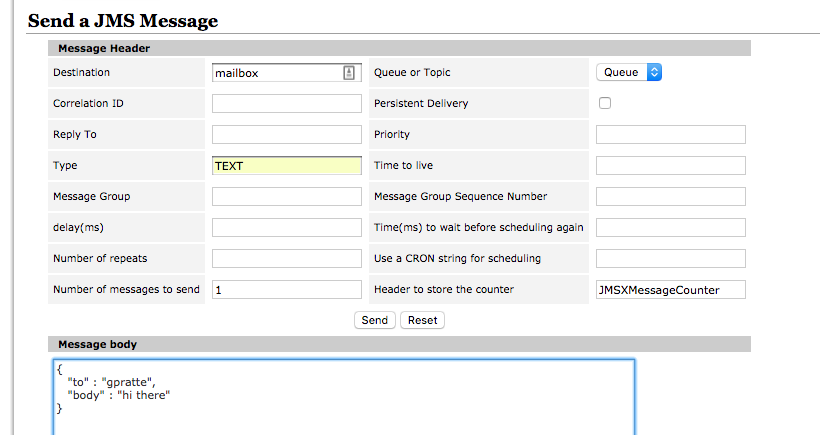
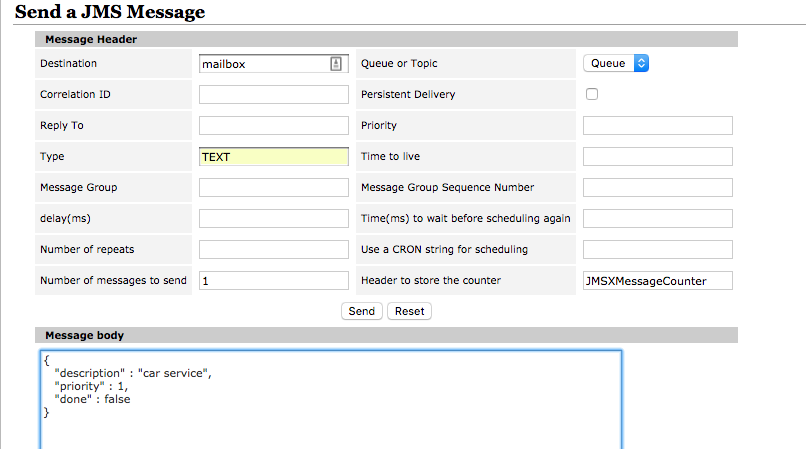
changed message from Email to Todo

Changed region(s): [[0.0, 0.0, 0.9305, 1.0], [0.7134, 0.5678, 0.8995, 0.6874], [0.7134, 0.2989, 0.8995, 0.3287]]

diff --git a/src/test/java/com/example/message/one/TodoStepDef.java b/src/test/java/com/example/message/one/TodoStepDef.java
@@ -1,16 +1,13 @@
 package com.example.message.one;
 
 import com.example.message.SpringBootBaseIntegrationTest;
-import com.example.message.model.Email;
+import com.example.message.model.Todo;
 import cucumber.api.java.After;
 import cucumber.api.java.Before;
 import cucumber.api.java.en.Given;
 import cucumber.api.java.en.Then;
 import cucumber.api.java.en.When;
 import org.junit.Ignore;
-import org.junit.runner.RunWith;
-import org.springframework.boot.test.context.SpringBootTest;
-import org.springframework.test.context.junit4.SpringRunner;
 
 import static com.github.tomakehurst.wiremock.client.WireMock.aResponse;
 import static com.github.tomakehurst.wiremock.client.WireMock.configureFor;
@@ -25,9 +22,9 @@ import static com.github.tomakehurst.wiremock.client.WireMock.verify;
  * The CucumberOneTest class is used to run the features when testing with JUnit.
  */
 @Ignore
-public class EmailStepDef extends SpringBootBaseIntegrationTest {
+public class TodoStepDef extends SpringBootBaseIntegrationTest {
 
-    private Email email;
+    private Todo todo;
 
     @Before
     public void before() {
@@ -41,11 +38,12 @@ public class EmailStepDef extends SpringBootBaseIntegrationTest {
         wireMockServer.stop();
     }
 
-    @Given("email is composed")
-    public void compose() {
-        email = Email.builder()
-            .to("nobody@example.com")
-            .body("Lorem ipsum dolor sit amet, consectetur adipiscing elit. Pellentesque scelerisque, enim in congue consequat, ligula.")
+    @Given("Given todo grocery shop is composed\n")
+    public void groceryShop() {
+        todo = Todo.builder()
+            .description("Grocery shop")
+            .priority(2)
+            .done(false)
             .build();
 
         stubFor(get(urlEqualTo("/api/json/utc/now"))
@@ -55,11 +53,12 @@ public class EmailStepDef extends SpringBootBaseIntegrationTest {
 
     }
 
-    @Given("email is composed to anybody")
-    public void composeToAnybody() {
-        email = Email.builder()
-            .to("anybody@example.com")
-            .body("Lorem ipsum dolor sit amet, consectetur adipiscing elit. Pellentesque scelerisque, enim in congue consequat, ligula.")
+    @Given("todo walk dogs is composed")
+    public void walkDogs() {
+        todo = Todo.builder()
+            .description("Walk dogs")
+            .priority(2)
+            .done(false)
             .build();
 
         stubFor(get(urlEqualTo("/api/json/utc/now"))
@@ -69,9 +68,9 @@ public class EmailStepDef extends SpringBootBaseIntegrationTest {
 
     }
 
-    @When("the email is published to the queue")
+    @When("the todo is published to the queue")
     public void publish() {
-        this.sendEmail(email);
+        this.sendTodo(todo);
     }
 
     @Then("the rest call should happen")

diff --git a/src/test/java/com/example/message/two/TodoStepDef2.java b/src/test/java/com/example/message/two/TodoStepDef2.java
@@ -1,16 +1,13 @@
 package com.example.message.two;
 
 import com.example.message.SpringBootBaseIntegrationTest;
-import com.example.message.model.Email;
+import com.example.message.model.Todo;
 import cucumber.api.java.After;
 import cucumber.api.java.Before;
 import cucumber.api.java.en.Given;
 import cucumber.api.java.en.Then;
 import cucumber.api.java.en.When;
 import org.junit.Ignore;
-import org.junit.runner.RunWith;
-import org.springframework.boot.test.context.SpringBootTest;
-import org.springframework.test.context.junit4.SpringRunner;
 
 import static com.github.tomakehurst.wiremock.client.WireMock.aResponse;
 import static com.github.tomakehurst.wiremock.client.WireMock.configureFor;
@@ -25,9 +22,9 @@ import static com.github.tomakehurst.wiremock.client.WireMock.verify;
  * The CucumberOneTest class is used to run the features when testing with JUnit.
  */
 @Ignore
-public class EmailStepDef2 extends SpringBootBaseIntegrationTest {
+public class TodoStepDef2 extends SpringBootBaseIntegrationTest {
 
-    private Email email;
+    private Todo todo;
 
     @Before
     public void before() {
@@ -45,17 +42,18 @@ public class EmailStepDef2 extends SpringBootBaseIntegrationTest {
         wireMockServer.stop();
     }
 
-    @Given("email is composed")
-    public void compose() {
-        email = Email.builder()
-            .to("nobody@example.com")
-            .body("Lorem ipsum dolor sit amet, consectetur adipiscing elit. Pellentesque scelerisque, enim in congue consequat, ligula.")
+    @Given("todo exercise is composed")
+    public void exercies() {
+        todo = Todo.builder()
+            .description("exercise")
+            .priority(2)
+            .done(false)
             .build();
     }
 
-    @When("the email is published to the queue")
+    @When("the todo is published to the queue")
     public void publish() {
-        this.sendEmail(email);
+        this.sendTodo(todo);
     }
 
     @Then("the rest call should happen")

diff --git a/src/main/java/com/example/message/connector/TodoMessageConverter.java b/src/main/java/com/example/message/connector/TodoMessageConverter.java
@@ -1,6 +1,6 @@
 package com.example.message.connector;
 
-import com.example.message.model.Email;
+import com.example.message.model.Todo;
 import com.fasterxml.jackson.databind.ObjectMapper;
 import org.springframework.jms.support.converter.MappingJackson2MessageConverter;
 import org.springframework.jms.support.converter.MessageConversionException;
@@ -11,19 +11,19 @@ import javax.jms.Message;
 import javax.jms.TextMessage;
 import java.io.IOException;
 
-public class EmailMessageConverter extends MappingJackson2MessageConverter {
+public class TodoMessageConverter extends MappingJackson2MessageConverter {
 
     private ObjectMapper mapper = new ObjectMapper();
 
     @Override
     public Object fromMessage(Message message) throws JMSException, MessageConversionException {
 
-        Email email = null;
+        Todo todo = null;
         if (message instanceof TextMessage) {
             TextMessage textMessage = (TextMessage) message;
             String json = textMessage.getText();
             try {
-                return mapper.readValue(json, Email.class);
+                return mapper.readValue(json, Todo.class);
             } catch (IOException e) {
                 e.printStackTrace();
             }
@@ -35,13 +35,13 @@ public class EmailMessageConverter extends MappingJackson2MessageConverter {
             bytesMessage.readBytes(bytes);
             String json = new String(bytes);
             try {
-                return mapper.readValue(json, Email.class);
+                return mapper.readValue(json, Todo.class);
             } catch (IOException e) {
                 e.printStackTrace();
             }
         }
 
-        return email;
+        return todo;
     }
 
 }

diff --git a/src/test/java/com/example/message/SpringBootBaseIntegrationTest.java b/src/test/java/com/example/message/SpringBootBaseIntegrationTest.java
@@ -1,10 +1,8 @@
 package com.example.message;
 
 import com.example.message.connector.ClockConnector;
-import com.example.message.model.Email;
+import com.example.message.model.Todo;
 import com.github.tomakehurst.wiremock.WireMockServer;
-import cucumber.api.java.After;
-import cucumber.api.java.Before;
 import org.junit.Ignore;
 import org.junit.runner.RunWith;
 import org.springframework.beans.factory.annotation.Autowired;
@@ -12,11 +10,7 @@ import org.springframework.boot.test.context.SpringBootTest;
 import org.springframework.jms.core.JmsTemplate;
 import org.springframework.test.context.junit4.SpringRunner;
 
-import static com.github.tomakehurst.wiremock.client.WireMock.aResponse;
 import static com.github.tomakehurst.wiremock.client.WireMock.configureFor;
-import static com.github.tomakehurst.wiremock.client.WireMock.get;
-import static com.github.tomakehurst.wiremock.client.WireMock.stubFor;
-import static com.github.tomakehurst.wiremock.client.WireMock.urlEqualTo;
 import static com.github.tomakehurst.wiremock.core.WireMockConfiguration.options;
 
 /**
@@ -37,8 +31,8 @@ public class SpringBootBaseIntegrationTest {
     // Configure wiremock server on port 9999
     protected WireMockServer wireMockServer = new WireMockServer(options().port(9999));
 
-    protected void sendEmail(Email email) {
-        jmsTemplate.convertAndSend("mailbox", email);
+    protected void sendTodo(Todo todo) {
+        jmsTemplate.convertAndSend("mailbox", todo);
     }
 
 }

diff --git a/src/main/java/com/example/message/MessageApplication.java b/src/main/java/com/example/message/MessageApplication.java
@@ -1,14 +1,12 @@
 package com.example.message;
 
-import com.example.message.model.Email;
 import org.springframework.beans.factory.annotation.Autowired;
-import org.springframework.boot.CommandLineRunner;
 import org.springframework.boot.SpringApplication;
 import org.springframework.boot.autoconfigure.SpringBootApplication;
 import org.springframework.jms.core.JmsTemplate;
 
 @SpringBootApplication
-public class MessageApplication implements CommandLineRunner {
+public class MessageApplication {
 
     @Autowired
     private JmsTemplate jmsTemplate;
@@ -17,15 +15,5 @@ public class MessageApplication implements CommandLineRunner {
         SpringApplication.run(MessageApplication.class, args);
     }
 
-    @Override
-    public void run(String... args) throws Exception {
-//        Email email = Email.builder()
-//            .to("nobody@example.com")
-//            .body("Lorem ipsum dolor sit amet, consectetur adipiscing elit. Pellentesque scelerisque, enim in congue consequat, ligula.")
-//            .build();
-//        System.out.println("Sending an email message.");
-//        jmsTemplate.convertAndSend("mailbox", email);
-
-    }
 }
 

diff --git a/src/main/java/com/example/message/service/Orchestrator.java b/src/main/java/com/example/message/service/Orchestrator.java
@@ -2,7 +2,7 @@ package com.example.message.service;
 
 import com.example.message.connector.ClockConnector;
 import com.example.message.model.CurrentDateTime;
-import com.example.message.model.Email;
+import com.example.message.model.Todo;
 import org.springframework.stereotype.Service;
 
 @Service
@@ -15,10 +15,10 @@ public class Orchestrator {
     }
 
     /**
-     * Orchestrate by getting the email and then calling a rest endpoint.
-     * @param email
+     * Orchestrate by getting the todo and then calling a rest endpoint.
+     * @param todo
      */
-    public void processEmail(Email email) {
+    public void processTodo(Todo todo) {
         CurrentDateTime currentDateTime = clockConnector.getCurrent();
         System.out.println("Current Date Time " + currentDateTime);
     }

diff --git a/src/main/java/com/example/message/connector/Receiver.java b/src/main/java/com/example/message/connector/Receiver.java
@@ -1,6 +1,6 @@
 package com.example.message.connector;
 
-import com.example.message.model.Email;
+import com.example.message.model.Todo;
 import com.example.message.service.Orchestrator;
 import org.springframework.jms.annotation.JmsListener;
 import org.springframework.stereotype.Component;
@@ -15,8 +15,8 @@ public class Receiver {
     }
 
     @JmsListener(destination = "mailbox", containerFactory = "myFactory")
-    public void receiveMessage(Email email) {
-        System.out.println("Received " + email);
-        orchestrator.processEmail(email);
+    public void receiveMessage(Todo todo) {
+        System.out.println("Received " + todo);
+        orchestrator.processTodo(todo);
     }
 }

diff --git a/src/main/java/com/example/message/config/JmsListenerConfig.java b/src/main/java/com/example/message/config/JmsListenerConfig.java
@@ -1,6 +1,6 @@
 package com.example.message.config;
 
-import com.example.message.connector.EmailMessageConverter;
+import com.example.message.connector.TodoMessageConverter;
 import org.springframework.boot.autoconfigure.jms.DefaultJmsListenerContainerFactoryConfigurer;
 import org.springframework.context.annotation.Bean;
 import org.springframework.context.annotation.Configuration;
@@ -26,7 +26,7 @@ public class JmsListenerConfig {
 
     @Bean // Serialize message content to json using TextMessage
     public MessageConverter messageConverter() {
-        return new EmailMessageConverter();
+        return new TodoMessageConverter();
     }
 
 }

diff --git a/src/test/java/com/example/message/CucumberTwoTest.java b/src/test/java/com/example/message/CucumberTwoTest.java
@@ -9,7 +9,7 @@ import org.junit.runner.RunWith;
  */
 @RunWith(Cucumber.class)
 @CucumberOptions(
-    features = "src/test/resources/features/email2.feature",
+    features = "src/test/resources/features/todo2.feature",
     glue = "com.example.message.two")
 public class CucumberTwoTest {
 }

diff --git a/src/test/java/com/example/message/CucumberOneTest.java b/src/test/java/com/example/message/CucumberOneTest.java
@@ -9,7 +9,7 @@ import org.junit.runner.RunWith;
  */
 @RunWith(Cucumber.class)
 @CucumberOptions(
-    features = "src/test/resources/features/email.feature",
+    features = "src/test/resources/features/todo.feature",
     glue = "com.example.message.one")
 public class CucumberOneTest {
 }

diff --git a/src/main/java/com/example/message/model/Todo.java b/src/main/java/com/example/message/model/Todo.java
@@ -9,7 +9,8 @@ import lombok.NoArgsConstructor;
 @Builder
 @AllArgsConstructor
 @NoArgsConstructor
-public class Email {
-    private String to;
-    private String body;
+public class Todo {
+    private String description;
+    private Integer priority;
+    private Boolean done;
 }

diff --git a/README.md b/README.md
@@ -50,8 +50,9 @@ Brought up Spring Boot and no complaints.
 In the ActiveMQ browser set the Type to TEXT and set the body to
 ```
 {  
-   "to" : "gpratte",
-   "body" : "hi there"
+   "description" : "car service",
+   "priority" : 1,
+   "done" : false
 }
 ```
 and hit send.
@@ -137,6 +138,9 @@ The test run in IntelliJ by running the JUnit test (CucumberOneTest) directly bu
 ```
 gradle clean test
 ``` 
+
+## 08-refactor-email-to-todo
+Changed the message from an _Email_ to a _Todo_
 
 .
 
